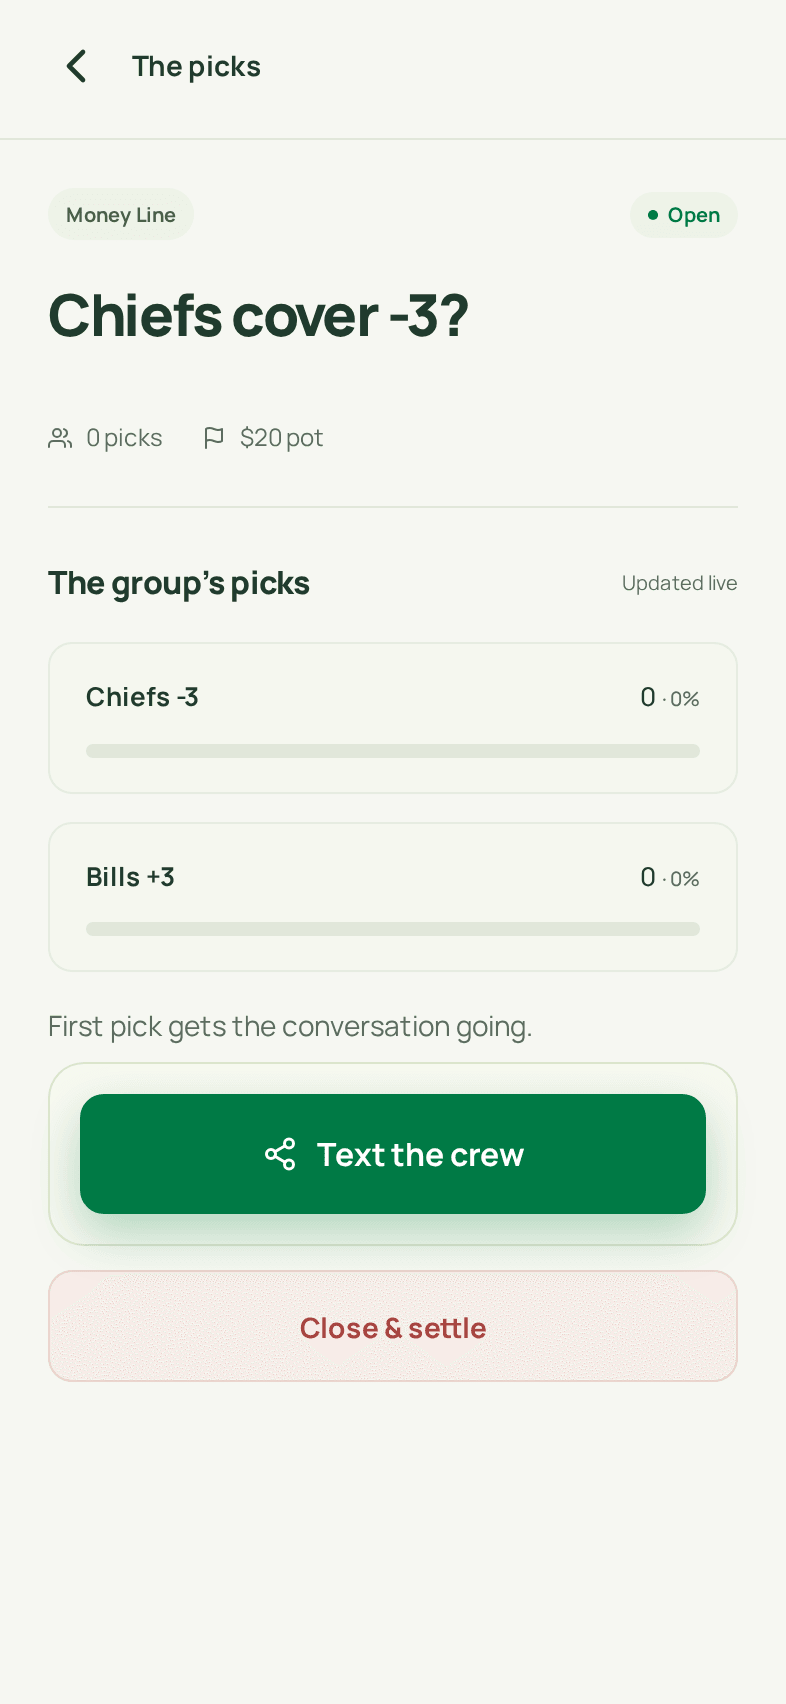
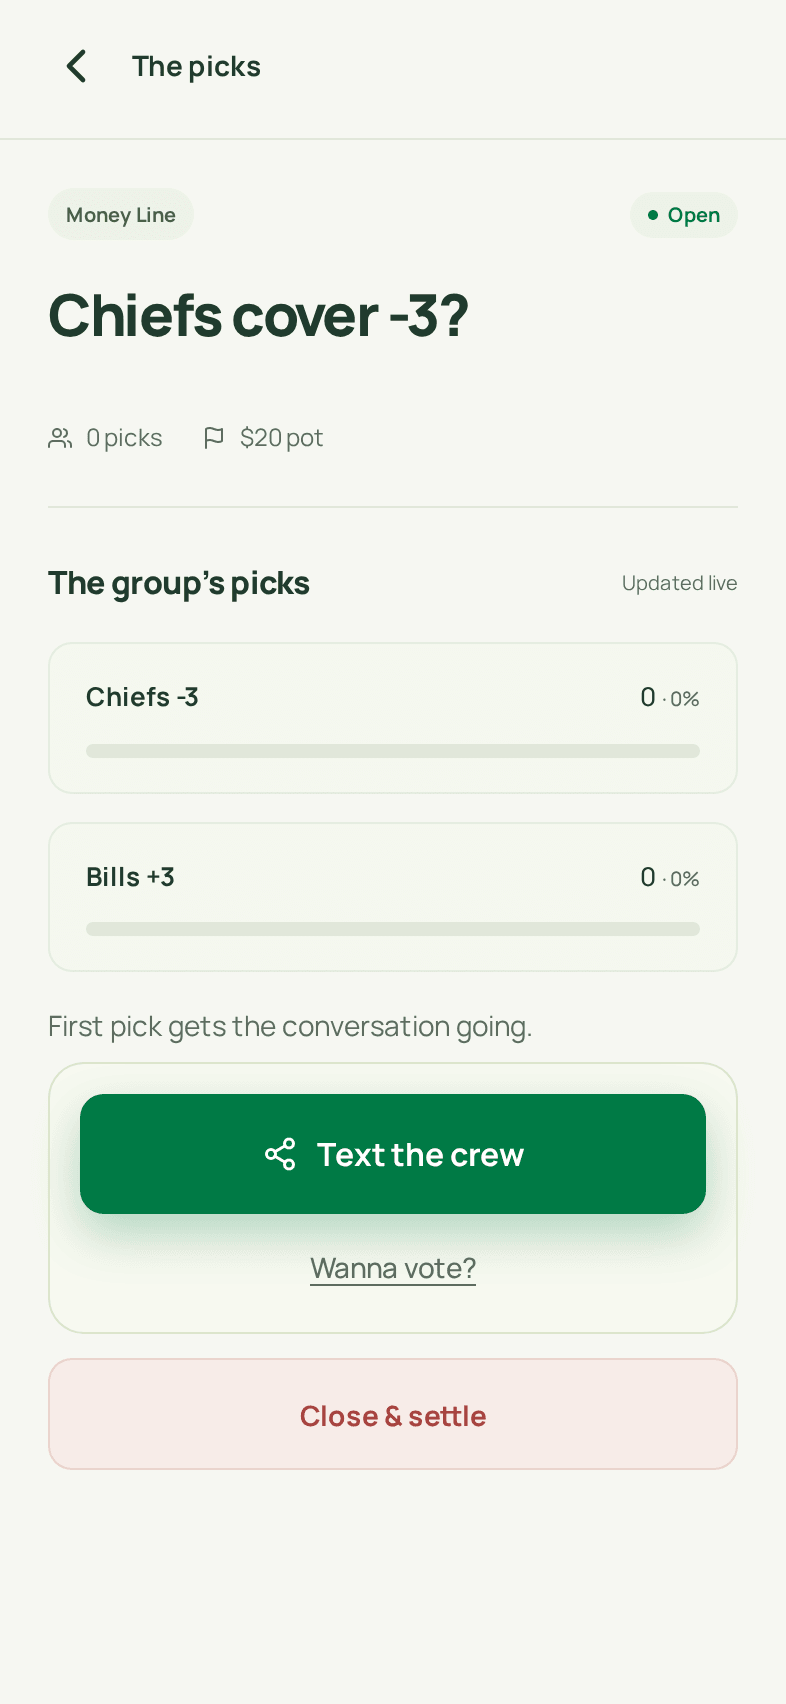
Tally: "Wanna vote?" link for the creator until they pick
Muted text link under Text the crew to /b/{code} via the shared Link adapter. Shown only to the creator, on an open bet (not settled or called off), before their vote is in. Unit tests per condition, e2e for open/back/hidden after vote, refreshed screenshots.

diff --git a/mobile/e2e/app.spec.js b/mobile/e2e/app.spec.js
@@ -104,7 +104,11 @@ async function mockCrew(page, { votes, share } = {}) {
       export const hydrateBet = async b => b;
       export const createBet = async () => 'crew123';
       export const saveBet = async () => 'crew123';
-      export const castVote = async () => {};
+      export const castVote = async (code, vote) => {
+        bet = { ...bet, votes: [...bet.votes.filter(v => v.voterId !== vote.voterId), { ...vote, at: 1 }] };
+        sessionStorage.setItem('crew-bet', JSON.stringify(bet));
+        listeners.forEach(cb => cb(bet));
+      };
       export const deleteBet = async () => {};
       export const settleBet = async (code, winnerId) => {
         bet = { ...bet, status: 'closed', winnerId, settledAt: 123, settlement: buildSettlement(bet, winnerId) };
@@ -159,8 +163,9 @@ test('making a bet lands on its live tally, opens the share sheet once, and back
   const button = page.getByRole('button', { name: 'Text the crew', exact: true });
   await expect(button).toHaveClass(/cta-nudge/);
   await expect(page.locator('.tally-share.is-nudge')).toBeVisible();
-  // The invite card is just the button: no vote link under it.
-  await expect(page.locator('.tally-share a')).toHaveCount(0);
+  // Under the invite, only the creator's own way to vote: no raw vote URL.
+  await expect(page.locator('.tally-share a')).toHaveCount(1);
+  await expect(page.locator('.tally-share a')).toHaveText('Wanna vote?');
   await expect(page.locator('.tally-share')).not.toContainText('/b/crew123');
   await expect(page.getByText('Saved. Text when you’re ready.')).toBeVisible();
   expect(await shares()).toEqual([invite]);
@@ -193,6 +198,54 @@ test('making a bet lands on its live tally, opens the share sheet once, and back
   expect(errors).toEqual([]);
 });
 
+test('after Create, Wanna vote? opens the vote page, back returns to the tally, and a pick hides it', async ({ page }, testInfo) => {
+  const errors = [];
+  page.on('pageerror', (error) => errors.push(error.message));
+  await mockCrew(page, { votes: [], share: 'dismiss' });
+  const shares = () => page.evaluate(() => JSON.parse(sessionStorage.getItem('e2e-shares') || '[]'));
+
+  await page.goto('/');
+  await page.getByRole('link', { name: 'Start a bet', exact: true }).click();
+  await page.getByRole('button', { name: /Money Line/ }).click();
+  await page.getByLabel(/Question/).fill('Who takes the win?');
+  await page.getByLabel('Option A').fill('Bears');
+  await page.getByLabel('Option B').fill('Packers');
+  await page.getByRole('button', { name: 'Next', exact: true }).click();
+  await page.getByLabel('Stake', { exact: true }).fill('$20 pot');
+  await page.getByRole('button', { name: 'Text friends', exact: true }).click();
+  await expect(page).toHaveURL(/\/t\/crew123$/);
+
+  const link = page.getByRole('link', { name: 'Wanna vote?', exact: true });
+  await expect(link).toBeVisible();
+  await expect(link).toHaveAttribute('href', '/b/crew123');
+  await expect(page.locator('.tally-share.is-nudge').getByRole('link')).toHaveText('Wanna vote?');
+  await page.screenshot({ path: testInfo.outputPath('creator-vote-link.png'), animations: 'disabled', scale: 'css' });
+
+  // In-app navigation: the vote page, then history back to the same tally.
+  await link.click();
+  await expect(page).toHaveURL(/\/b\/crew123$/);
+  await expect(page.getByRole('heading', { name: 'What’s your call?' })).toBeVisible();
+  await page.goBack();
+  await expect(page).toHaveURL(/\/t\/crew123$/);
+  await expect(page.getByRole('heading', { name: 'The picks' })).toBeVisible();
+  await expect(link).toBeVisible();
+  // Coming back never reopens the share sheet.
+  expect(await shares()).toHaveLength(1);
+
+  // Once the creator picks, the tally drops the link.
+  await link.click();
+  await expect(page).toHaveURL(/\/b\/crew123$/);
+  await page.getByRole('button', { name: 'Bears', exact: true }).click();
+  await expect(page.getByRole('heading', { name: 'What’s your call?' })).toHaveCount(0);
+  await page.goBack();
+  await expect(page).toHaveURL(/\/t\/crew123$/);
+  await expect(page.locator('.voter-list')).toContainText('Jack');
+  await expect(page.getByRole('button', { name: 'Text the crew', exact: true })).toBeVisible();
+  await expect(link).toHaveCount(0);
+  expect(await shares()).toHaveLength(1);
+  expect(errors).toEqual([]);
+});
+
 test('with no share sheet and no clipboard, the tally shows the whole invite to copy', async ({ page }) => {
   const errors = [];
   page.on('pageerror', (error) => errors.push(error.message));
@@ -206,7 +259,8 @@ test('with no share sheet and no clipboard, the tally shows the whole invite to 
   await expect(card.locator('.manual-message')).toHaveText(
     'New bet: Who takes the win?\nStakes: $20 pot\nPick your side: http://127.0.0.1:5173/b/crew123',
   );
-  await expect(card.locator('a')).toHaveCount(0);
+  // No raw vote URL to tap; the creator's only link is Wanna vote?.
+  await expect(card.locator('a')).toHaveText(['Wanna vote?']);
   expect(page.url()).toMatch(/\/t\/crew123$/);
   expect(errors).toEqual([]);
 });

diff --git a/src/phone/TallyScreen.test.jsx b/src/phone/TallyScreen.test.jsx
@@ -3,6 +3,7 @@ import userEvent from '@testing-library/user-event';
 import TallyScreen from './TallyScreen';
 import { settleBet, subscribeBet } from './api';
 import { buildSettlement } from './settlement';
+import { withOptimisticVote } from './model';
 import { hasShareSheet, openShareSheet, shareMessage } from './share';
 import { markFreshBet } from './freshBet';
 import { navigation } from 'next/navigation';
@@ -266,7 +267,7 @@ describe('the invite right after Create', () => {
     await signIn(creator);
     expect(inviteButton()).toHaveClass('cta', 'cta-nudge');
     expect(inviteButton().closest('.tally-share')).toHaveClass('is-nudge');
-    // The invite card is just the button: no vote link under it.
+    // No raw vote URL under the invite.
     expect(screen.queryByRole('link', { name: /\/b\/abc123/ })).not.toBeInTheDocument();
     expect(screen.queryByText(/\/b\/abc123/)).not.toBeInTheDocument();
 
@@ -303,6 +304,71 @@ describe('the invite right after Create', () => {
     expect(shareMessage).toHaveBeenCalledWith(invite);
     expect(screen.getByText('Copied \u2014 paste into a text.')).toBeInTheDocument();
     expect(document.querySelector('.manual-message')).not.toBeInTheDocument();
+  });
+});
+
+describe('the creator’s Wanna vote? link', () => {
+  const voteLink = () => screen.queryByRole('link', { name: 'Wanna vote?' });
+  const own = { voterId: 'creator-1', name: 'Maya', optionId: 'a' };
+
+  test('shows under Text the crew for the creator’s open bet they haven’t picked on', async () => {
+    await renderTally();
+    await signIn(creator);
+    expect(voteLink()).toHaveAttribute('href', '/b/abc123');
+    expect(voteLink()).toHaveTextContent(/^Wanna vote\?$/);
+    expect(voteLink()).toHaveClass('text-link');
+    expect(voteLink().closest('.tally-share')).toHaveClass('is-nudge');
+    expect(voteLink().previousElementSibling).toHaveTextContent('Text the crew');
+  });
+
+  test('shows with other picks in, not only on the zero-picks card', async () => {
+    mockBet.current = { ...openBet, votes: [{ voterId: 'sam', name: 'Sam', optionId: 'a' }] };
+    await renderTally();
+    await signIn(creator);
+    expect(voteLink().closest('.tally-share')).not.toHaveClass('is-nudge');
+    expect(voteLink()).toHaveAttribute('href', '/b/abc123');
+  });
+
+  test('hides once the creator has picked', async () => {
+    mockBet.current = { ...openBet, votes: [own] };
+    await renderTally();
+    await signIn(creator);
+    expect(screen.getByRole('button', { name: 'Text the crew' })).toBeInTheDocument();
+    expect(voteLink()).not.toBeInTheDocument();
+  });
+
+  test('hides for a bet carrying the creator’s optimistic own pick', async () => {
+    mockBet.current = withOptimisticVote(openBet, own);
+    await renderTally();
+    await signIn(creator);
+    expect(screen.getByRole('button', { name: 'Text the crew' })).toBeInTheDocument();
+    expect(voteLink()).not.toBeInTheDocument();
+  });
+
+  test('hides for anyone but the creator', async () => {
+    await renderTally();
+    await signIn(anon);
+    expect(voteLink()).not.toBeInTheDocument();
+    await signIn(otherPhone);
+    expect(voteLink()).not.toBeInTheDocument();
+  });
+
+  test('hides on a settled bet', async () => {
+    mockBet.current = { ...openBet, status: 'closed', winnerId: 'a', settledAt: 1, settlement: buildSettlement(openBet, 'a') };
+    await renderTally();
+    await signIn(creator);
+    expect(voteLink()).not.toBeInTheDocument();
+  });
+
+  test('hides on a called-off bet', async () => {
+    for (const bet of [{ ...openBet, calledOff: true }, { ...openBet, status: 'called-off' }]) {
+      mockBet.current = bet;
+      await renderTally();
+      await signIn(creator);
+      expect(screen.getByText('This bet was called off.')).toBeInTheDocument();
+      expect(voteLink()).not.toBeInTheDocument();
+      cleanup();
+    }
   });
 });
 
@@ -523,6 +589,14 @@ describe('live tally', () => {
     await push({ ...openBet, votes: [vote('v1', 'a')] });
     expect(counts()).toEqual(['1 · 100%', '0 · 0%']);
     expect(screen.queryByRole('alert')).not.toBeInTheDocument();
+  });
+
+  test('the creator’s pick landing live hides Wanna vote?', async () => {
+    await renderTally();
+    await signIn(creator);
+    expect(screen.getByRole('link', { name: 'Wanna vote?' })).toBeInTheDocument();
+    await push({ ...openBet, votes: [vote('creator-1', 'a')] });
+    expect(screen.queryByRole('link', { name: 'Wanna vote?' })).not.toBeInTheDocument();
   });
 
   test('settling elsewhere flips the tally live and removes Close & settle', async () => {

diff --git a/src/phone/TallyScreen.jsx b/src/phone/TallyScreen.jsx
@@ -1,6 +1,7 @@
 'use client';
 
 import { useEffect, useRef, useState } from 'react';
+import Link from '../platform/Link';
 import { useParams, useRouter } from '../platform/navigation';
 import { FiChevronLeft, FiShare2 } from 'react-icons/fi';
 import { BetFacts } from './ProductUI';
@@ -16,6 +17,7 @@ import {
   statusLabel,
   tallyCounts,
   typeLabelOf,
+  voteFor,
   votingOpen,
 } from './model';
 import { formatInvite } from './inviteCopy';
@@ -157,6 +159,11 @@ const TallyScreen = () => {
   // The creator's own open bet with no picks yet: texting the crew is next.
   const nudge = Boolean(bet) && votingOpen(bet) && isBetCreator(user, bet)
     && tallyCounts(bet).every((row) => row.count === 0);
+  // The creator's own open bet they haven't picked on yet. `settled` also
+  // covers a called-off bet. A pick made on the vote page shows up here once
+  // its snapshot does (the vote screen's optimistic pick stays on that screen).
+  const offerVote = Boolean(bet) && votingOpen(bet) && !settled && isBetCreator(user, bet)
+    && !voteFor(bet, user.uid);
 
   useEffect(() => {
     if (bet?.votes?.some((vote) => vote.voterId === user?.uid)) rememberBet(user.uid, betId);
@@ -234,6 +241,11 @@ const TallyScreen = () => {
                 <FiShare2 size={18} aria-hidden="true" />
                 Text the crew
               </button>
+              {offerVote && (
+                <Link className="text-link tally-vote-link" href={`/b/${encodeURIComponent(bet.code || betId)}`}>
+                  Wanna vote?
+                </Link>
+              )}
             </div>}
             {canSettle && !settling && (
               <button type="button" className="danger press" onClick={() => setSettling(true)}>

diff --git a/src/phone/phone.css b/src/phone/phone.css
@@ -854,6 +854,20 @@ body {
   box-shadow: inset 0 0 0 1px #dce5cc;
 }
 
+/* The creator's own way to the vote page: quiet, under the invite. */
+.text-link.tally-vote-link {
+  margin: 0 auto;
+  min-height: 36px;
+  width: auto;
+  padding: 0 12px;
+  border-radius: 8px;
+  color: var(--muted);
+  font-size: 14px;
+  font-weight: 500;
+  text-decoration: underline;
+  text-underline-offset: 3px;
+}
+
 .cta.cta-nudge {
   height: 60px;
   min-height: 60px;
